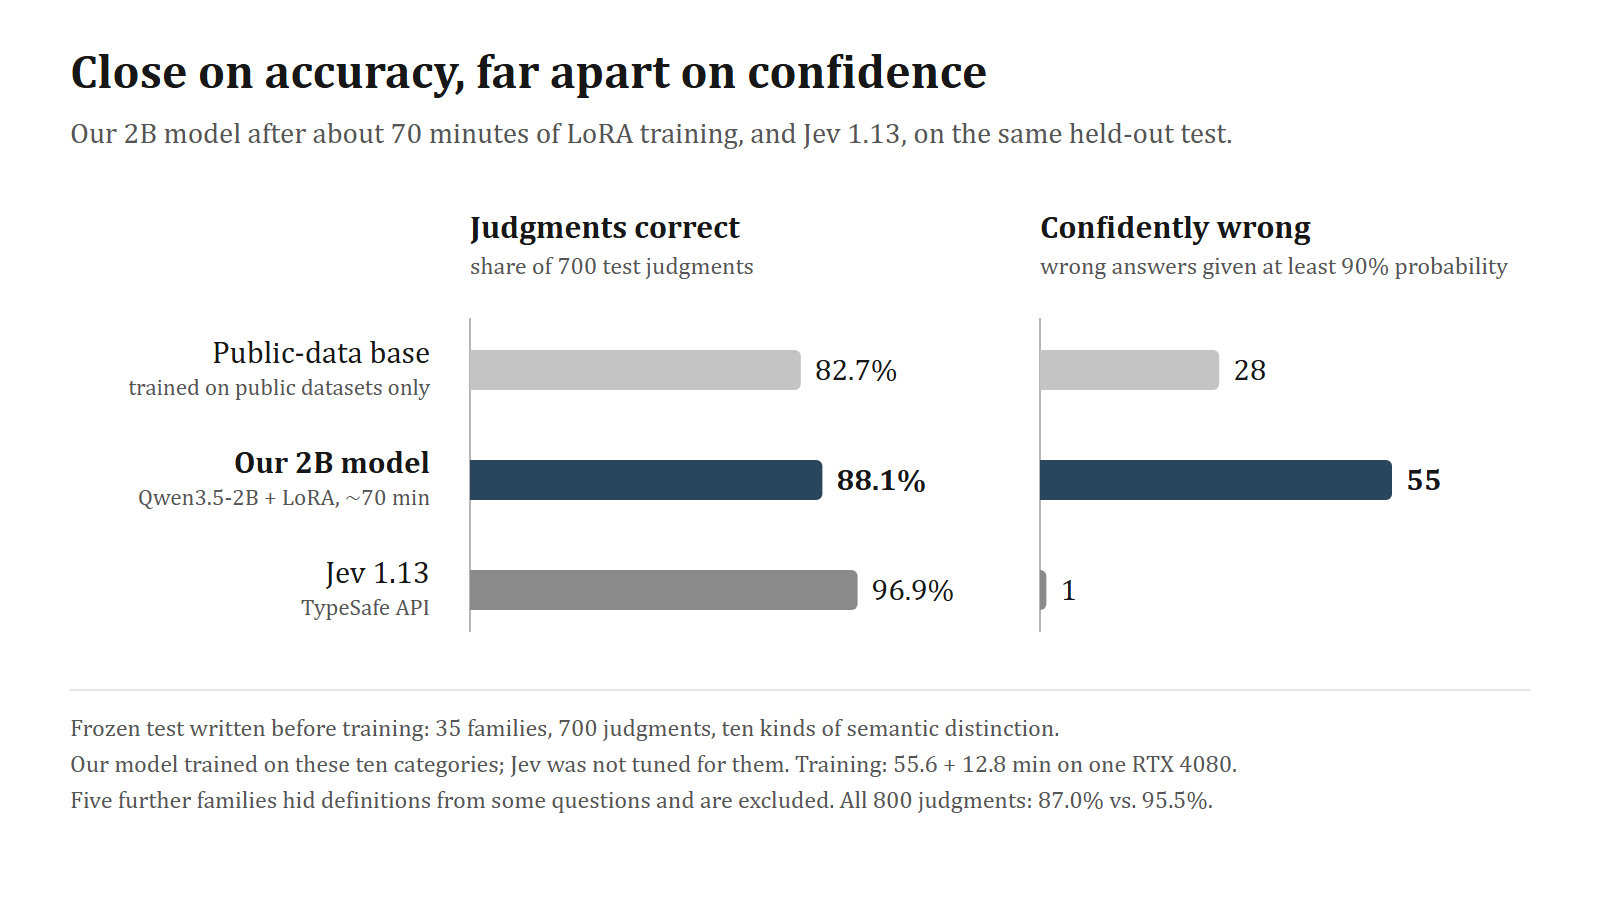
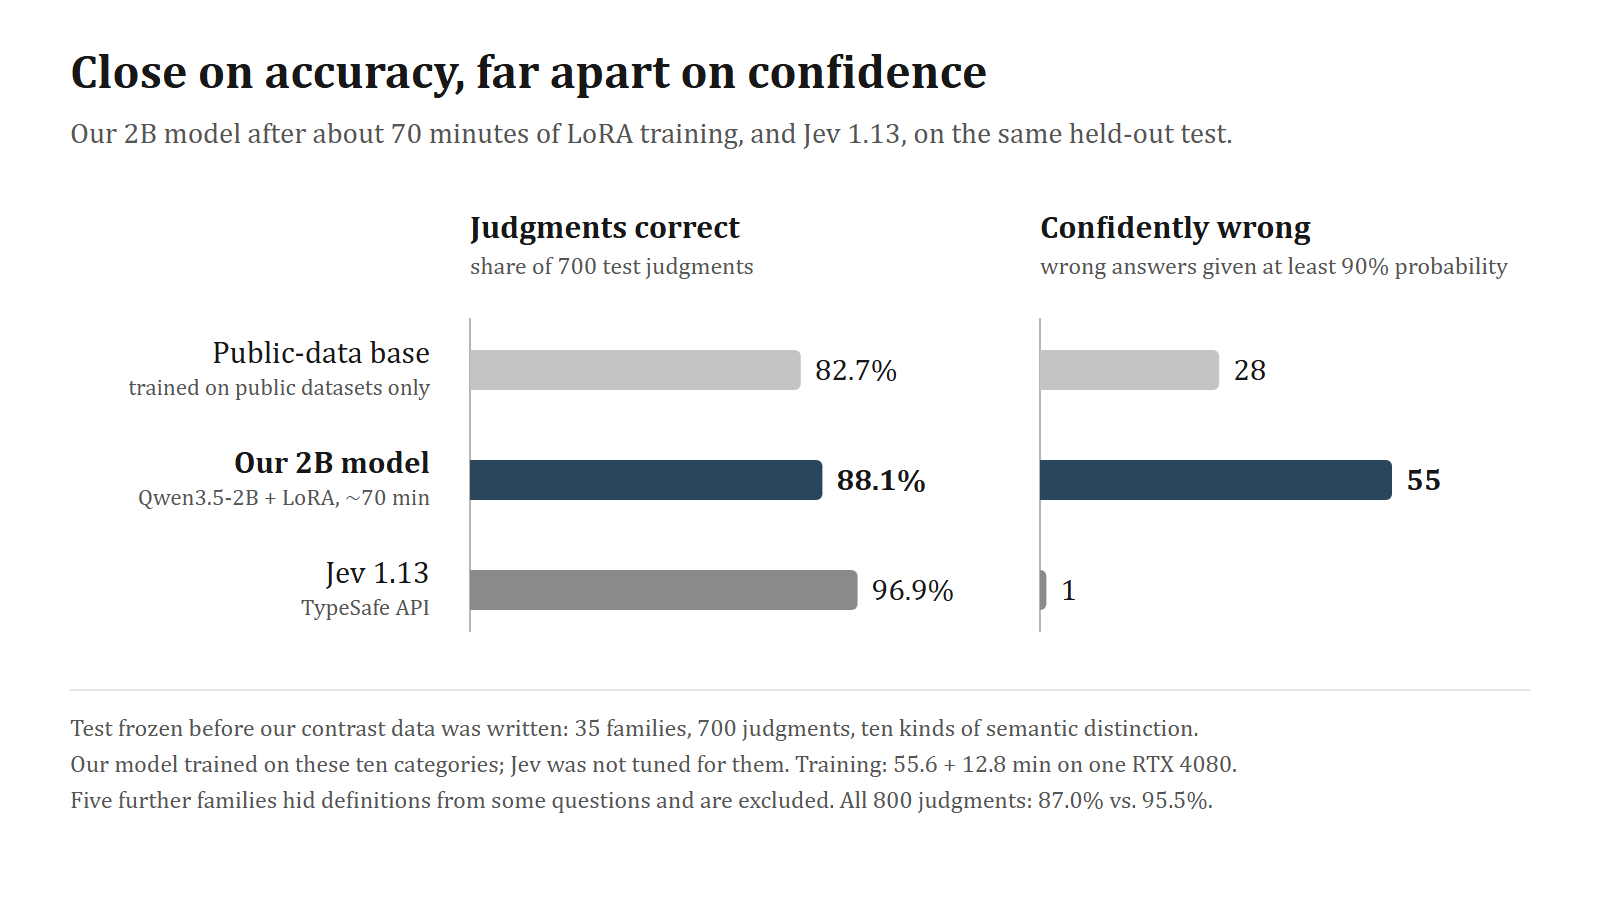
Describe the headline test as frozen and independently written
The public-data base model was trained before the test was written, so
"written before training" was only true of the contrast training. Refresh
the thread figures to match.

Changed region(s): [[0.0312, 0.7778, 0.75, 0.84]]

diff --git a/README.md b/README.md
@@ -10,7 +10,7 @@ This is independent work. It does not describe how Jev is built or trained; Type
 
 ## Headline result
 
-On a frozen test written before training, our selected checkpoint answers 617 of 700 judgments correctly (88.1%). Jev 1.13.0 answers 678 (96.9%). The checkpoint is Qwen3.5-2B with rank-8 LoRA adapters and two small readout heads, trained for about 68 minutes on one RTX 4080: 55.6 minutes on public research datasets, then 12.8 minutes on contrastive examples written in natural language.
+On a frozen, independently written test, our selected checkpoint answers 617 of 700 judgments correctly (88.1%). Jev 1.13.0 answers 678 (96.9%). The checkpoint is Qwen3.5-2B with rank-8 LoRA adapters and two small readout heads, trained for about 68 minutes on one RTX 4080: 55.6 minutes on public research datasets, then 12.8 minutes on contrastive examples written in natural language.
 
 The accuracy gap is 8.8 points. The confidence gap is far larger: our model gives 55 wrong answers with at least 90% probability, and Jev gives one.
 
